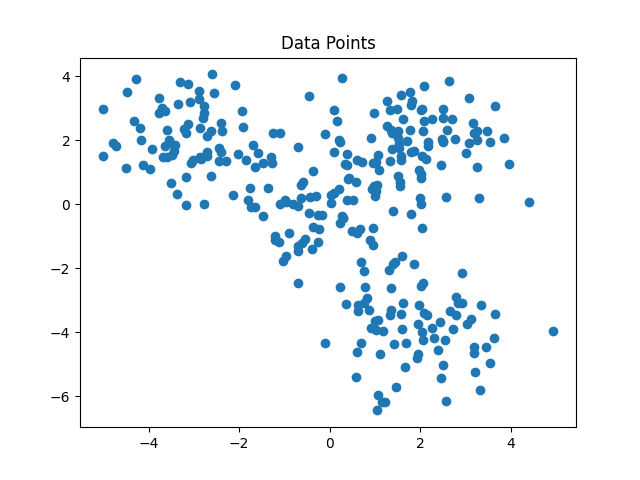
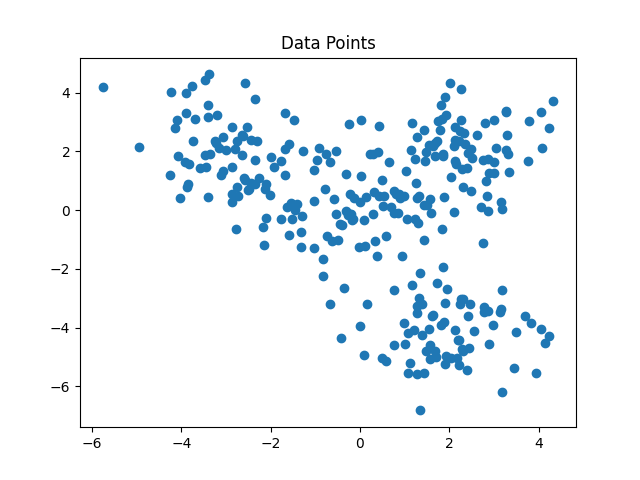
got the steps button to work now working on the Run to convergence

diff --git a/static/scripts.js b/static/scripts.js
@@ -111,8 +111,8 @@ function updatePlot(imageUrl) {
 // When the user selects "Manual"
 function onInitMethodChange() {
     let oldDiv = document.getElementById("cluster_image");
+    oldDiv.src = '';
     k = parseInt(document.getElementById("num_clusters").value);
-    oldDiv.innerHTML = '';  // Clear previous snapshots
     let method = document.getElementById('init_method').value;
     if (method === 'manual') {
         isManual = true;
@@ -123,38 +123,42 @@ function onInitMethodChange() {
             });
     } else {
         isManual = false;
-        fetch('/start_clustering', {
-            method: 'POST',
-            headers: {
-                'Content-Type': 'application/json',
-            },
-            body: JSON.stringify({
-                num_clusters: k,
-                init_method: method
-            })
-        })
-        .then(response => response.json())
-        .then(data => {
-            console.log(data);  // Use this to debug
-            if (data.snap_file) {
-                let snapshotDiv = document.getElementById("clusterPlot");
-                snapshotDiv.innerHTML = '';
-                let img = document.createElement('img');
-                img.src = `${data.snap_file}`;  
-                img.style.width = '300px';  
-                snapshotDiv.appendChild(img);
-            } else if (data.error) {
-                console.error(data.error);
-            }
-        })
-        .catch(error => console.error('Error:', error));
-    }
+    //     fetch('/start_clustering', {
+    //         method: 'POST',
+    //         headers: {
+    //             'Content-Type': 'application/json',
+    //         },
+    //         body: JSON.stringify({
+    //             num_clusters: k,
+    //             init_method: method
+    //         })
+    //     })
+    //     .then(response => response.json())
+    //     .then(data => {
+    //         console.log(data);  // Use this to debug
+    //         if (data) {
+    //             let snapshotDiv = document.getElementById("clusterPlot");
+    //             // snapshotDiv.innerHTML = '';
+    //             let img = document.createElement('img');
+    //             img.src = `${data.snap_file}`;  
+    //             // img.style.width = '300px';  
+    //             snapshotDiv.appendChild(img);
+
+
+    //         } else if (data.error) {
+    //             console.error(data.error);
+    //         }
+    //     })
+    //     .catch(error => console.error('Error:', error));
+    // }
+}
 }
 
 function StepThrough(){
     let oldDiv = document.getElementById("cluster_image");
     oldDiv.innerHTML = '';
     oldDiv.src ='';
+    let method = document.getElementById('init_method').value;
 
     if(press===false){
         onInitMethodChange()
@@ -170,7 +174,7 @@ function StepThrough(){
         })
         .then(response => response.json())
         .then(data => {
-            snapshots = data;
+            snapshots = data.graphs;
             displaySnapshots(stepnum);
             press=true;
             stepnum++;
@@ -188,12 +192,12 @@ function StepThrough(){
 function displaySnapshots(stepIndex) {
     let snapshotDiv = document.getElementById("clusterPlot");
     snapshotDiv.innerHTML = '';  // Clear previous snapshots
-    
     let img = document.createElement('img');
     img.src = `/static/${snapshots[stepIndex]}`;  // Use the current snapshot
     img.alt = `Snapshot ${stepIndex}`;
     // img.style.width = '300px';  // Set image width
     snapshotDiv.appendChild(img);
+    
 }
 
 function Regenerate(){

diff --git a/templates/index.html b/templates/index.html
@@ -20,7 +20,7 @@
         </select>
         <button onclick="StepThrough()">Step Through KMeans</button>
         <button onclick="Regenerate()">Generate New Data Set</button>
-        <img id="cluster_image" src="{{ url_for('static', filename=snap_init) }}" alt="Cluster Plot"> 
+        <img id="cluster_image" src="static/snapinit.png" alt="Cluster Plot"> 
         
         <div id="clusterPlot"></div>
         <!-- <img id="cluster_image" src="" alt="Cluster Image" style="width:400px;height:400px;"> -->

diff --git a/kmeans_init_methods.py b/kmeans_init_methods.py
@@ -14,6 +14,7 @@ class KMeans():
         self.centroids = []
     
     def snap(self, centers):
+        print("at snap")
         filename = f"snapshot_{len(self.snaps)}.png"
         filepath = os.path.join("static", filename)
         fig, ax = plt.subplots()
@@ -27,16 +28,16 @@ class KMeans():
 
     
     def lloyds(self,init_method,centroids):
+        print(init_method)
         if init_method == 'manual':
             self.centroids = centroids
             self.snap(centroids)
             self.make_clusters(self.centroids)
         else:
-            centers = self.initialize(init_method)
-            print("centers after init method",centers)
-            self.centroids=centers
-            self.make_clusters(centers)
-            self.snap(centers)
+            self.centroids = self.initialize(init_method)
+            print("fucking centroids",len(self.centroids))
+            self.make_clusters(self.centroids)
+            self.snap(self.centroids)
         # self.snap(centers)
             print("made clusters")
         new_centers = self.compute_centers()
@@ -45,8 +46,8 @@ class KMeans():
         print("snap of new centers")
         while self.are_diff(self.centroids, new_centers):
             self.unassign()
-            centers = new_centers
-            self.make_clusters(centers)
+            self.centroids = new_centers
+            self.make_clusters(self.centroids)
             new_centers = self.compute_centers()
             self.snap(new_centers)
         return self.snaps
@@ -88,8 +89,12 @@ class KMeans():
     #             plt.draw()
 
     def random_initialization(self):
-        return self.data[np.random.choice(len(self.data), size=self.k, replace=False)]
-
+        # centroids = self.data[np.random.choice(len(self.data), size=self.k, replace=False)]
+        # print("Randomly initialized centroids:", centroids)
+        # return centroids
+        indices = self.data[np.random.choice(len(self.data), size=self.k, replace=False)]
+        return indices
+    
     def farthest_first_initialization(self):
         centers = [self.data[np.random.randint(len(self.data))]]  # Choose the first center randomly
         for _ in range(1, self.k):
@@ -107,7 +112,6 @@ class KMeans():
             probs = dist / dist.sum()  # Probability based on distance
             new_center = self.data[np.random.choice(len(self.data), p=probs)]
             centers.append(new_center)
-        print(np.array(centers))
         return np.array(centers)
 
     def make_clusters(self, centers):
@@ -140,14 +144,16 @@ class KMeans():
     
     def are_diff(self,centers,new_centers):
         for i in range(self.k):
-            if self.dist(centers[i],new_centers[i]) == 0:
+            if self.dist(centers[i],new_centers[i]) != 0:
                 #if distances between centers is 0 then they are not dif
                  return True
+        return False
+        
     def is_unassigned(self,i):
         self.assignments[i] == -1
 
-    def dist(self,x,y):
-        return sum((x-y)**2)**(1/2)
+    def dist(self, x, y):
+        return np.linalg.norm(x - y) 
 
 # Example usage
 
@@ -155,9 +161,9 @@ class KMeans():
 # if __name__ == "__main__":
 #     centers = [[0, 0], [2, 2], [-3, 2], [2, -4]]
 #     X, _ = datasets.make_blobs(n_samples=300, centers=centers, cluster_std=1, random_state=0)
-    
+#     centroids = []
 #     kmeans = KMeans(X, 4)
-#     kmeans.lloyds('farthest_first')  # Example with KMeans++ initialization
+#     kmeans.lloyds('random',centroids)  # Example with KMeans++ initialization
     # images = kmeans.snaps
 
     # images[0].save(

diff --git a/app.py b/app.py
@@ -39,23 +39,26 @@ def index():
 # Route to return data for Plotly.js plot
 @app.route('/get_data', methods=['GET'])
 def get_data():
+    print("at get data")
     dataX = X[:, 0].tolist()
     dataY = X[:, 1].tolist()
     return jsonify({'dataX': dataX, 'dataY': dataY})
 
-@app.route('/start_clustering', methods=['POST'])
-def start_clustering():
-    global kmeans
-    global graphs
-    init_method = request.json.get('init_method')
-    k = request.json.get("num_clusters")
-    kmeans = KMeans(X, k)
-    graphs = kmeans.lloyds(init_method,centroids)
-    last_snapshot = graphs[-1] if graphs else None
-    if last_snapshot:
-        return jsonify({"snap_file": last_snapshot})
-    else:
-        return jsonify({"error": "No snapshots generated"}), 500
+#for printing last one that matters 
+# @app.route('/start_clustering', methods=['POST'])
+# def start_clustering():
+#     global kmeans
+#     global graphs
+#     init_method = request.json.get('init_method')
+#     k = request.json.get("num_clusters")
+#     kmeans = KMeans(X, k)
+#     graphs = kmeans.lloyds(init_method,centroids)
+#     return jsonify(graphs)
+#     # last_snapshot = graphs[-1] if graphs else None
+#     # if last_snapshot:
+#     #     return jsonify({"snap_file": last_snapshot})
+#     # else:
+#     #     return jsonify({"error": "No snapshots generated"}), 500
 
 @app.route('/add_centroids', methods=['POST'])
 def add_centroids():
@@ -93,14 +96,12 @@ def update_plot_with_clusters(centroids):
 def steps():
     global kmeans
     global graphs
-    if len(graphs)>0:
-        return jsonify(graphs)
-    else:
-        init_method = request.json.get('init_method')
-        k = request.json.get("num_clusters")
-        kmeans = KMeans(X, k)
-        graphs = kmeans.lloyds(init_method,centroids)
-        return jsonify(graphs)
+
+    init_method = request.json.get('init_method')
+    k = request.json.get("num_clusters")
+    kmeans = KMeans(X, k)
+    graphs = kmeans.lloyds(init_method,centroids)
+    return jsonify({"graphs":graphs})
     
     # Send the centroids snapshots to the frontend
 
